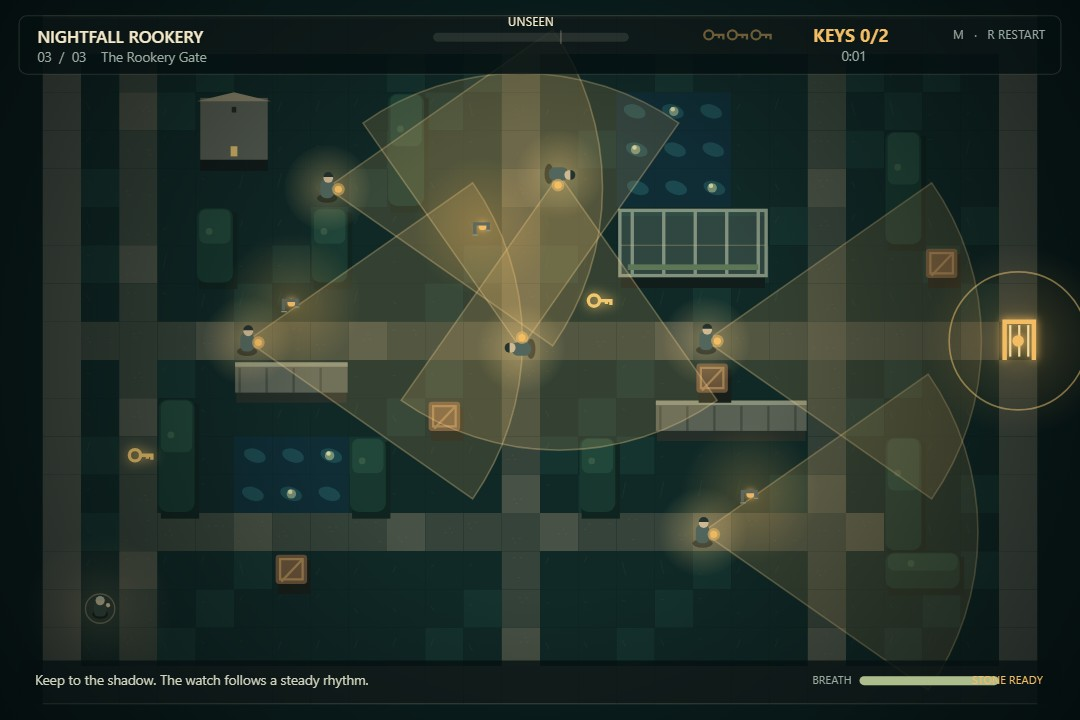
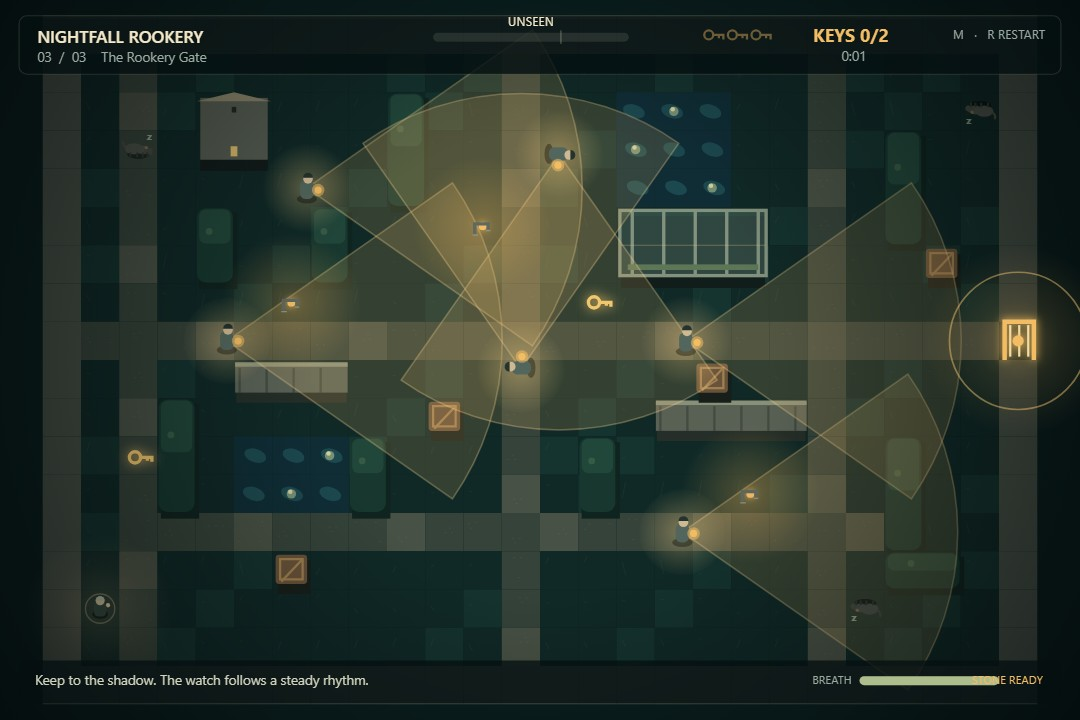
Add the kennel hound that follows your scent

diff --git a/game/src/hound.js b/game/src/hound.js
@@ -1,0 +1,112 @@
+// The kennel hound: asleep until noise wakes it, then it follows the keeper's own scent trail.
+// It never sees you; it only ever knows where you have been, which is why crouching and
+// standing still are the two ways to make it lose the thread.
+import { TILE } from './config.js';
+
+const SCENT_SPACING = TILE * 0.55;
+const WAKE_RADIUS = TILE * 4.6;
+const TRAIL_MEMORY = 7;
+
+export function createHounds(level) {
+  return (level.hounds ?? []).map((spot, id) => ({
+    id, x: spot.x, y: spot.y, homeX: spot.x, homeY: spot.y,
+    state: 'asleep', angle: spot.facing ?? 0, bob: id * 1.7, timer: 0,
+    trail: [], barkCooldown: 0,
+  }));
+}
+
+function dropScent(hound, player) {
+  const last = hound.trail[hound.trail.length - 1];
+  if (!last || Math.hypot(player.x - last.x, player.y - last.y) > SCENT_SPACING) {
+    hound.trail.push({ x: player.x, y: player.y, age: 0 });
+  }
+}
+
+function followScent(hound, player, dt) {
+  for (const step of hound.trail) step.age += dt;
+  while (hound.trail.length && hound.trail[0].age > TRAIL_MEMORY) hound.trail.shift();
+  const target = hound.trail[0];
+  if (!target) return false;
+  const dx = target.x - hound.x;
+  const dy = target.y - hound.y;
+  const distance = Math.hypot(dx, dy);
+  hound.angle = Math.atan2(dy, dx);
+  if (distance < 3) { hound.trail.shift(); return true; }
+  const step = Math.min(distance, 78 * dt);
+  hound.x += (dx / distance) * step;
+  hound.y += (dy / distance) * step;
+  return false;
+}
+
+export function updateHounds(hounds, player, dt, audio) {
+  let alarm = 0;
+  for (const hound of hounds) {
+    hound.bob += dt * (hound.state === 'awake' ? 9 : 2);
+    hound.barkCooldown = Math.max(0, hound.barkCooldown - dt);
+    const distance = Math.hypot(player.x - hound.x, player.y - hound.y);
+    // A sprint, a thrown stone or a shuttered lantern close by carries to the kennel.
+    const noise = player.sprint ? 1 : player.noise > 0 ? 0.55 : 0;
+    if (hound.state === 'asleep' && distance < WAKE_RADIUS && noise > 0) {
+      hound.state = 'awake';
+      hound.timer = 9;
+      hound.trail = [{ x: player.x, y: player.y, age: 0 }];
+      if (hound.barkCooldown === 0) { audio.bark(); hound.barkCooldown = 2.4; }
+    }
+    if (hound.state === 'awake') {
+      hound.timer -= dt;
+      dropScent(hound, player);
+      followScent(hound, player, dt);
+      alarm = Math.max(alarm, 0.34);
+      if (hound.barkCooldown === 0 && distance < TILE * 3.2) { audio.bark(); hound.barkCooldown = 1.8; }
+      if (distance < TILE * 0.5) player.caught = true;
+      if (hound.timer <= 0 && hound.trail.length === 0) hound.state = 'returning';
+    } else if (hound.state === 'returning') {
+      const dx = hound.homeX - hound.x;
+      const dy = hound.homeY - hound.y;
+      const back = Math.hypot(dx, dy);
+      hound.angle = Math.atan2(dy, dx);
+      if (back < 3) hound.state = 'asleep';
+      else { const step = Math.min(back, 46 * dt); hound.x += (dx / back) * step; hound.y += (dy / back) * step; }
+    }
+  }
+  return alarm;
+}
+
+export function drawHounds(ctx, hounds, time) {
+  for (const hound of hounds) {
+    if (hound.state === 'awake') {
+      ctx.save();
+      ctx.strokeStyle = 'rgba(239, 128, 96, .16)'; ctx.lineWidth = 2;
+      ctx.beginPath(); ctx.arc(hound.x, hound.y, TILE * 2.2, 0, Math.PI * 2); ctx.stroke();
+      ctx.fillStyle = 'rgba(239, 128, 96, .12)';
+      for (const step of hound.trail) { ctx.beginPath(); ctx.arc(step.x, step.y, 2.4, 0, Math.PI * 2); ctx.fill(); }
+      ctx.restore();
+    }
+    ctx.save();
+    ctx.translate(hound.x, hound.y + Math.sin(hound.bob) * 0.8);
+    ctx.rotate(hound.angle);
+    ctx.fillStyle = 'rgba(0, 0, 0, .42)';
+    ctx.beginPath(); ctx.ellipse(0, 5, 10, 4, 0, 0, Math.PI * 2); ctx.fill();
+    // A curled dog reads as an animal at a glance: haunch, chest, muzzle, tail and legs.
+    ctx.fillStyle = hound.state === 'asleep' ? '#4a5148' : '#6b5646';
+    ctx.beginPath(); ctx.ellipse(-4, 0, 8, 5, 0, 0, Math.PI * 2); ctx.fill();
+    ctx.beginPath(); ctx.ellipse(4, 1, 5.4, 4, 0, 0, Math.PI * 2); ctx.fill();
+    ctx.strokeStyle = hound.state === 'asleep' ? '#454b43' : '#7d6650'; ctx.lineWidth = 2;
+    ctx.beginPath(); ctx.moveTo(-11, -1); ctx.quadraticCurveTo(-15, -4, -13, -7); ctx.stroke();
+    ctx.fillStyle = hound.state === 'asleep' ? '#454b43' : '#7d6650';
+    ctx.beginPath(); ctx.ellipse(9, 2, 4, 3, 0.35, 0, Math.PI * 2); ctx.fill();
+    ctx.fillStyle = hound.state === 'asleep' ? '#2f3a34' : '#433a2f';
+    for (const leg of [-8, -2, 3, 7]) { ctx.fillRect(leg, 3.4, 1.8, 4.2); }
+    if (hound.state === 'asleep') {
+      ctx.fillStyle = 'rgba(206, 226, 190, .6)'; ctx.font = 'bold 9px system-ui, sans-serif';
+      ctx.fillText('z', 12, -9 + Math.sin(hound.bob) * 1.5);
+    }
+    ctx.fillStyle = hound.state === 'awake' ? '#ef8060' : 'rgba(239, 160, 120, .35)';
+    ctx.beginPath(); ctx.arc(7, -1, 1.5, 0, Math.PI * 2); ctx.fill();
+    if (hound.state === 'awake') {
+      ctx.strokeStyle = 'rgba(239, 128, 96, .55)'; ctx.lineWidth = 1;
+      ctx.beginPath(); ctx.arc(7, -1, 5 + Math.sin(time * 8) * 1.4, 0, Math.PI * 2); ctx.stroke();
+    }
+    ctx.restore();
+  }
+}

diff --git a/game/src/main.js b/game/src/main.js
@@ -7,6 +7,7 @@ import { createGuards, updateGuards } from './guards.js';
 import { createRenderer } from './render.js';
 import { createAudio } from './audio.js';
 import { createLanterns, isInsideLanternShadow, toggleNearbyLantern } from './lanterns.js';
+import { createHounds, updateHounds } from './hound.js';
 
 const canvas = document.getElementById('game');
 const status = document.getElementById('status');
@@ -15,7 +16,7 @@ const renderer = createRenderer(canvas);
 const audio = createAudio();
 const state = {
   screen: 'title', levelIndex: 0, level: LEVELS[0], world: createWorld(0),
-  player: createPlayer(LEVELS[0].playerStart), guards: createGuards(LEVELS[0]), lanterns: createLanterns(LEVELS[0]),
+  player: createPlayer(LEVELS[0].playerStart), guards: createGuards(LEVELS[0]), lanterns: createLanterns(LEVELS[0]), hounds: createHounds(LEVELS[0]),
   lanternHintShown: false,
   detection: 0, time: 0, elapsed: 0, notice: '', noticeTimer: 0, transitionTimer: 0,
 };
@@ -39,6 +40,7 @@ function loadLevel(index) {
   state.player = createPlayer(state.level.playerStart);
   state.guards = createGuards(state.level);
   state.lanterns = createLanterns(state.level);
+  state.hounds = createHounds(state.level);
   state.lanternHintShown = false;
   state.detection = 0;
   state.notice = '';
@@ -118,6 +120,8 @@ function update(dt) {
   const key = collectKeys(state.player, state.level);
   if (key) { audio.key(); setNotice('A brass key. The old lock will turn now.', 2.1); }
   const action = updateGuards(state.guards, state.world, state.player, state.level, state.lanterns, dt, audio);
+  const houndPressure = updateHounds(state.hounds, state.player, dt, audio);
+  action.detection = Math.max(action.detection, houndPressure);
   const visibleGuards = state.guards.filter((guard) => guard.seeing);
   const pressure = action.detection;
   const loudNearMiss = visibleGuards.length === 0 && state.player.sprint && action.nearest && action.nearest.distance < 82;

diff --git a/game/src/levels.js b/game/src/levels.js
@@ -20,7 +20,8 @@ export const LEVELS = [
       { name: 'Sedge', route: [[5, 4], [8, 4], [8, 6], [7, 7], [5, 7]], pause: 0.55 },
       { name: 'Pell', route: [[15, 8], [23, 8], [23, 10], [23, 8]], pause: 0.7 },
       { name: 'Wren', route: [[13, 2], [13, 6], [13, 2]], pause: 0.8 },
-    ], length: 6.7, suspicion: 1.9, chase: 3.5,
+    ], hounds: [{ col: 21, row: 15, facing: Math.PI }, { col: 2, row: 3, facing: 0 }],
+    length: 6.7, suspicion: 1.9, chase: 3.5,
   },
   {
     name: 'The Rookery Gate', subtitle: 'Two keys remain. Keep to the shadows.', keys: [[2, 11], [14, 7]], lanterns: [wallLantern(6, 7, Math.PI / 2), wallLantern(18, 12, Math.PI / 2), wallLantern(11, 5, 0)], guards: [
@@ -30,7 +31,8 @@ export const LEVELS = [
       { name: 'Pell', route: [[15, 8], [23, 8], [23, 10], [23, 8]], pause: 0.55 },
       { name: 'Wren', route: [[13, 2], [13, 6], [13, 2]], pause: 0.75 },
       { name: 'Rook', route: [[12, 10], [12, 7], [12, 4], [12, 7]], pause: 0.6 },
-    ], length: 7.2, suspicion: 1.65, chase: 3.8,
+    ], hounds: [{ col: 21, row: 15, facing: Math.PI }, { col: 2, row: 3, facing: 0 }, { col: 24, row: 2, facing: Math.PI }],
+    length: 7.2, suspicion: 1.65, chase: 3.8,
   },
 ].map((level) => ({
   ...level,
@@ -39,6 +41,7 @@ export const LEVELS = [
   })),
   keys: level.keys.map(([col, row], id) => ({ id, ...at(col, row), found: false })),
   lanterns: level.lanterns.map((lantern, id) => ({ ...lantern, id })),
+  hounds: (level.hounds ?? []).map((spot) => at(spot.col, spot.row)).map((spot, id) => ({ ...spot, id, facing: level.hounds[id].facing })),
   playerStart: at(1, 15),
   gate: at(25, 8),
 }));

diff --git a/game/src/render.js b/game/src/render.js
@@ -3,6 +3,7 @@ import { COLS, FONT, HEIGHT, MAP_X, MAP_Y, PALETTE, ROWS, TILE, WIDTH } from './
 import { drawHud } from './hud.js';
 import { guardVisionRange } from './vision.js';
 import { LANTERN_SHADOW_RANGE, LANTERN_SHADOW_HALF_ANGLE } from './lanterns.js';
+import { drawHounds } from './hound.js';
 
 const rounded = (ctx, x, y, width, height, radius) => {
   ctx.beginPath(); ctx.roundRect(x, y, width, height, radius);
@@ -258,6 +259,7 @@ export function createRenderer(canvas) {
     drawLanternShadows(ctx, state.lanterns);
     drawLanterns(ctx, state.lanterns, state.time);
     drawKeys(ctx, state.level, state.time);
+    drawHounds(ctx, state.hounds ?? [], state.time);
     drawCoverLight(ctx, state.player);
     for (const guard of state.guards) drawGuard(ctx, guard);
     drawKeeper(ctx, state.player, state.time);

diff --git a/game/src/hud.js b/game/src/hud.js
@@ -11,6 +11,7 @@ function hintFor(state) {
   if (state.notice) return state.notice;
   if (findNearbyLantern(state.player.x, state.player.y, state.lanterns)) return 'E shutter or open this wall lantern.';
   if (state.player.caught) return 'A lantern has closed in.';
+  if ((state.hounds ?? []).some((hound) => hound.state === 'awake')) return 'The hound is awake and following your scent. Stand still, then move quiet.';
   if (state.player.hidden) return 'You are in deep cover. Stay low and let the watch pass.';
   if (state.detection > 0.62) return 'Too close to the light. Break sight and crouch.';
   if (state.detection > 0.2) return 'A guard is searching. Slip behind a wall or hedge.';

diff --git a/game/src/audio.js b/game/src/audio.js
@@ -36,6 +36,7 @@ export function createAudio() {
     key() { tone(560, 0.18, 'sine', 0.04, 220); setTimeout(() => tone(880, 0.28, 'sine', 0.03, 160), 95); },
     gate() { tone(330, 0.4, 'sine', 0.025, 280); setTimeout(() => tone(495, 0.55, 'sine', 0.03, 250), 140); },
     alarm() { tone(190, 0.5, 'sawtooth', 0.04, 280); },
+    bark() { tone(260, 0.08, 'square', 0.03, -120); setTimeout(() => tone(200, 0.1, 'square', 0.026, -80), 105); },
     clank() { tone(310, 0.11, 'triangle', 0.018, -125); setTimeout(() => tone(205, 0.09, 'triangle', 0.012, -55), 45); },
     shutter() { tone(245, 0.075, 'triangle', 0.012, -90); },
     lantern(dt) {

diff --git a/README.md b/README.md
@@ -42,7 +42,7 @@ Open `index.html`, press Enter, and pick a level with `1`, `2` or `3`.
 - **Breath.** Sprinting is loud and burns breath; standing still refills it. Walking is free. Gravel scatters under a sprint and a lamplighter will turn toward the sound.
 - **Stones.** A thrown stone lands where you click and pulls the nearest lamplighter's attention to it, which is how you move a patrol off a corridor you need.
 - **Wall lanterns.** Each corridor is lit by iron lanterns. `E` shutters one: the corridor sinks into shadow, and a lamplighter standing in that shadow sees less than half as far. A lamplighter who passes a shuttered lantern relights it after a moment, so a dark corridor is a window, not a hiding place.
-- **Deep cover.** Hedges and interior rooms hide you completely while you are inside them; the hint line says so, so you always know what the game thinks of your position.
+- **The kennel hound.** Levels two and three keep a hound asleep by its kennel. It never sees you: a sprint or a thrown stone within a few paces wakes it, and then it follows the trail of where you have been, barking, dragging the nearest lamplighters toward your scent. Stand still and it runs out of trail; crouch and it never wakes.
 
 ## The garden
 
@@ -64,6 +64,7 @@ Plain ES modules, no libraries, no build step, no network. `game/src` holds the 
 | `guards.js` | patrol routes, pauses, suspicion, chase, relighting |
 | `vision.js` | the line-of-sight test against the tile map |
 | `lanterns.js` | which lantern is near, its shadow, and the guard's reduced sight in it |
+| `hound.js` | the kennel hound: sleeping, waking on noise, following the keeper's scent trail |
 | `world.js` | the tile map, collision and cover queries |
 | `render.js` | the camera, the cones, the light pools, the silhouettes |
 | `hud.js` | the suspicion meter, breath bar, key row and the hint line |
